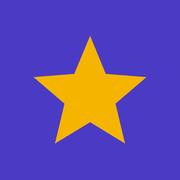
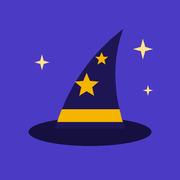
Nuevo ícono de sombrero de mago y nombre "ProfeMago Rewards"
Claude-Session: https://claude.ai/code/session_01Dp5UomWzTR4QUdU45UXKE2

diff --git a/vite.config.js b/vite.config.js
@@ -18,8 +18,8 @@ export default defineConfig(({ mode, command }) => ({
       registerType: 'autoUpdate', // cuando publicamos una mejora, la app se actualiza sola
       includeAssets: ['favicon.png', 'apple-touch-icon.png'],
       manifest: {
-        name: 'Profe Mago Rewards',
-        short_name: 'Profe Mago',
+        name: 'ProfeMago Rewards',
+        short_name: 'ProfeMago Rewards',
         description: 'Puntos para tus estudiantes con tarjetas QR, canjeables por premios.',
         lang: 'es',
         theme_color: '#4B3BC4',

diff --git a/index.html b/index.html
@@ -4,7 +4,8 @@
     <meta charset="UTF-8" />
     <meta name="viewport" content="width=device-width, initial-scale=1, viewport-fit=cover" />
     <meta name="theme-color" content="#4B3BC4" />
-    <title>Profe Mago Rewards</title>
+    <title>ProfeMago Rewards</title>
+    <meta name="apple-mobile-web-app-title" content="ProfeMago Rewards" />
     <link rel="icon" type="image/png" href="/favicon.png" />
     <link rel="apple-touch-icon" href="/apple-touch-icon.png" />
     <link rel="preconnect" href="https://fonts.googleapis.com" />
